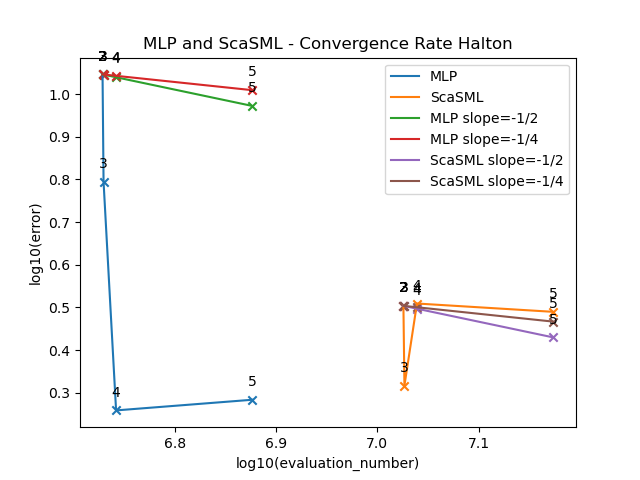
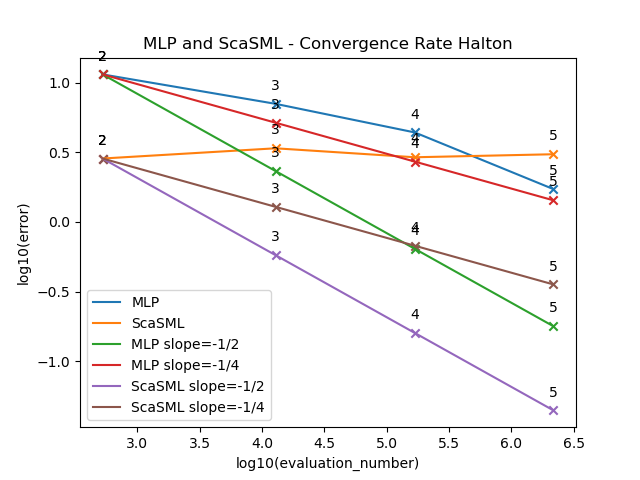
chore: update evaluation standard

diff --git a/ScaSML_full_history.py b/ScaSML_full_history.py
@@ -78,7 +78,6 @@ class ScaSML_full_history(object):
         batch_size=x_t.shape[0]
         x=x_t[:,:-1]
         temp_x=temp_boundary[:,:-1]
-        self.evaluation_counter+=batch_size
         u_hat = self.GP.GPsolver(x, temp_x, GN_step=4)
         # tensor_x_t[:, -1] = self.T
         # Calculate the result of the terminal constraint function
@@ -179,7 +178,6 @@ class ScaSML_full_history(object):
             batch_size=x_t.shape[0]
             x=x_t[:,:-1]
             temp_x=temp_boundary[:,:-1]
-            self.evaluation_counter+=batch_size
             u_hat = self.GP.GPsolver(x, temp_x, GN_step=4)
             grad_u_hat_x = self.GP.compute_gradient(x, u_hat)   
             initial_value= np.concatenate((u_hat, grad_u_hat_x), axis=-1)        
@@ -250,7 +248,6 @@ class ScaSML_full_history(object):
         batch_size=x_t.shape[0]
         x=x_t[:,:-1]
         temp_x=temp_boundary[:,:-1]
-        self.evaluation_counter+=batch_size
         u_hat = self.GP.GPsolver(x, temp_x, GN_step=4)
         
         # Calculate and return the final u value

diff --git a/ScaSML.py b/ScaSML.py
@@ -79,7 +79,6 @@ class ScaSML(object):
         batch_size=x_t.shape[0]
         x=x_t[:,:-1]
         temp_x=temp_boundary[:,:-1]
-        self.evaluation_counter+=batch_size
         u_hat = self.GP.GPsolver(x, temp_x, GN_step=4)
         # tensor_x_t[:, -1] = self.T
         # Calculate the result of the terminal constraint function
@@ -238,7 +237,6 @@ class ScaSML(object):
             batch_size=x_t.shape[0]
             x=x_t[:,:-1]
             temp_x=temp_boundary[:,:-1]
-            self.evaluation_counter+=batch_size
             u_hat = self.GP.GPsolver(x, temp_x, GN_step=4)
             grad_u_hat_x = self.GP.compute_gradient(x, u_hat)   
             initial_value= np.concatenate((u_hat, grad_u_hat_x), axis=-1)        
@@ -321,7 +319,6 @@ class ScaSML(object):
         temp_x=temp_boundary[:,:-1]
         batch_size=x_t.shape[0]
         x=x_t[:,:-1]
-        self.evaluation_counter+=batch_size
         u_hat = self.GP.GPsolver(x, temp_x, GN_step=4)
         
         # Calculate and return the final u value

diff --git a/experiment_run_full_history.py b/experiment_run_full_history.py
@@ -47,12 +47,12 @@ solver2=MLP(equation=equation) #Multilevel Picard object
 solver3=ScaSML(equation=equation,GP=solver1) #ScaSML object
 
 
-#run the test for NormalSphere
-test1=NormalSphere(equation,solver1,solver2,solver3)
-rhomax=test1.test(r"results_full_history/GP_Example/100d")
-#run the test for SimpleUniform
-test2=SimpleUniform(equation,solver1,solver2,solver3)
-test2.test(r"results_full_history/GP_Example/100d")
+# #run the test for NormalSphere
+# test1=NormalSphere(equation,solver1,solver2,solver3)
+# rhomax=test1.test(r"results_full_history/GP_Example/100d")
+# #run the test for SimpleUniform
+# test2=SimpleUniform(equation,solver1,solver2,solver3)
+# test2.test(r"results_full_history/GP_Example/100d")
 #run the test for ConvergenceRate
 test3=ConvergenceRate(equation,solver1,solver2,solver3)
 test3.test(r"results_full_history/GP_Example/100d")

diff --git a/experiment_run.py b/experiment_run.py
@@ -47,12 +47,12 @@ solver2=MLP(equation=equation) #Multilevel Picard object
 solver3=ScaSML(equation=equation,GP=solver1) #ScaSML object
 
 
-#run the test for NormalSphere
-test1=NormalSphere(equation,solver1,solver2,solver3)
-rhomax=test1.test(r"results/GP_Example/100d")
-#run the test for SimpleUniform
-test2=SimpleUniform(equation,solver1,solver2,solver3)
-test2.test(r"results/GP_Example/100d")
+# #run the test for NormalSphere
+# test1=NormalSphere(equation,solver1,solver2,solver3)
+# rhomax=test1.test(r"results/GP_Example/100d")
+# #run the test for SimpleUniform
+# test2=SimpleUniform(equation,solver1,solver2,solver3)
+# test2.test(r"results/GP_Example/100d")
 #run the test for ConvergenceRate
 test3=ConvergenceRate(equation,solver1,solver2,solver3)
 test3.test(r"results/GP_Example/100d")
